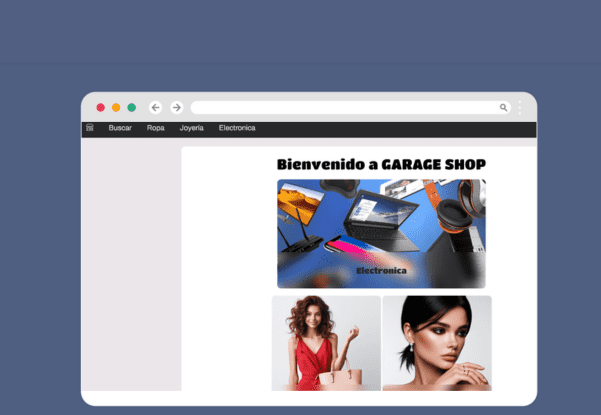
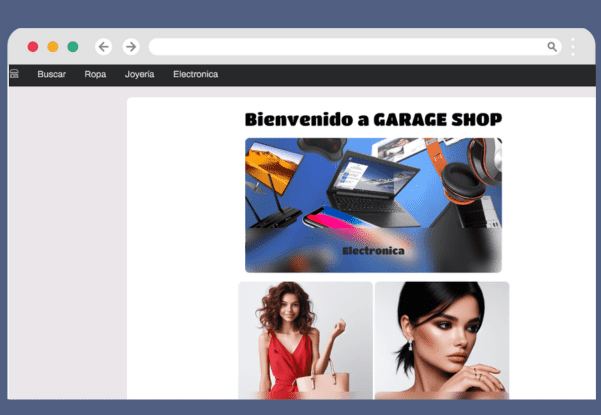
---

diff --git a/src/Components/Projects/MinimizedProjects.jsx b/src/Components/Projects/MinimizedProjects.jsx
@@ -5,9 +5,11 @@ import { FaBasketShopping, FaReact } from "react-icons/fa6";
 import { RiJavascriptFill } from "react-icons/ri";
 import { SiTailwindcss } from "react-icons/si";
 import { TbBrandFramerMotion } from "react-icons/tb";
+import { generalContext } from "../../Context/GeneralContext";
 import "./animationDelay.css";
 
 function MinimizedProjects() {
+	const { setMoreData } = React.useContext(generalContext);
 	return (
 		<>
 			<div className='w-6/7 md:w-4/6 h-full relative flex items-center justify-between flex-col md:flex-row text-bgLight bg-zinc-800  rounded-xl  '>
@@ -75,7 +77,7 @@ function MinimizedProjects() {
 
 			<div className='w-6/7 md:w-4/6 h-full relative flex flex-col md:flex-row-reverse items-center justify-between text-bgLight bg-zinc-800  rounded-xl  '>
 				<div className='w-1/2 min-h-140  flex flex-col items-center justify-start rounded-r-xl px-2 '>
-					<div className='flex items-center justify-between w-full px-0 md:px-2 lg:px-5'>
+					<div className='flex items-center justify-between w-full px-0 md:px-2 lg:px-14'>
 						<p className='  font-tittle font-black  text-2xl '>Garage Shop</p>
 
 						<FaBasketShopping className='text-4xl' />
@@ -122,7 +124,7 @@ function MinimizedProjects() {
 					onClick={() => {
 						setMoreData("Garage Shop");
 					}}
-					className='mt-5 lg:mt-0 w-4/5 lg:w-1/2 cursor-pointer flex min-h-140 items-end justify-center object-contain rounded-xl lg:rounded-l-xl hover:rounded-xl   bg-[#505F82] '>
+					className='mt-5 lg:mt-0 w-4/5 lg:w-1/2 cursor-pointer flex min-h-140 items-end justify-center object-contain rounded-xl lg:rounded-l-xl hover:rounded-xl  bg-[#505F82]  '>
 					<img
 						className='w-3/4  rounded-t-xl '
 						alt='Personal Organizer'

diff --git a/src/Components/AboutMe/AboutForm.jsx b/src/Components/AboutMe/AboutForm.jsx
@@ -160,14 +160,21 @@ function AboutForm() {
 							className={`flex items-center justify-center mt-2 w-full lg:w-1/2 mx-6   overflow-hidden ${styles.paragraph} `}>
 							<div className='w-full whitespace-pre-line bg-slate-50 rounded-3xl p-5 '>
 								<div class='flex items-center p-3'>
-									<div class='px-1'>
-										<span class='w-4 h-4 rounded-full inline-block bg-red-500 cursor-pointer'></span>
+									<div
+										onClick={() => {
+											setSelectedOption("");
+											setParrafo("");
+											setHeightP("");
+											setIsVisible(false);
+										}}
+										className='px-1 cursor-pointer hover:scale-125 transition-all'>
+										<span class='w-4 h-4 rounded-full inline-block bg-red-500 '></span>
 									</div>
-									<div class='px-1'>
-										<span class='w-4 h-4 rounded-full inline-block bg-yellow-400 cursor-pointer'></span>
+									<div className='px-1 '>
+										<span class='w-4 h-4 rounded-full inline-block bg-yellow-400 '></span>
 									</div>
-									<div class='px-1'>
-										<span class='w-4 h-4 rounded-full inline-block bg-green-500 cursor-pointer'></span>
+									<div className='px-1 '>
+										<span class='w-4 h-4 rounded-full inline-block bg-green-500 '></span>
 									</div>
 								</div>
 								{parrafo}

diff --git a/src/App.css b/src/App.css
@@ -1357,6 +1357,26 @@ video {
     padding-right: 1.25rem;
   }
 
+  .lg\:px-2 {
+    padding-left: 0.5rem;
+    padding-right: 0.5rem;
+  }
+
+  .lg\:px-10 {
+    padding-left: 2.5rem;
+    padding-right: 2.5rem;
+  }
+
+  .lg\:px-20 {
+    padding-left: 5rem;
+    padding-right: 5rem;
+  }
+
+  .lg\:px-14 {
+    padding-left: 3.5rem;
+    padding-right: 3.5rem;
+  }
+
   .lg\:pt-0 {
     padding-top: 0px;
   }
